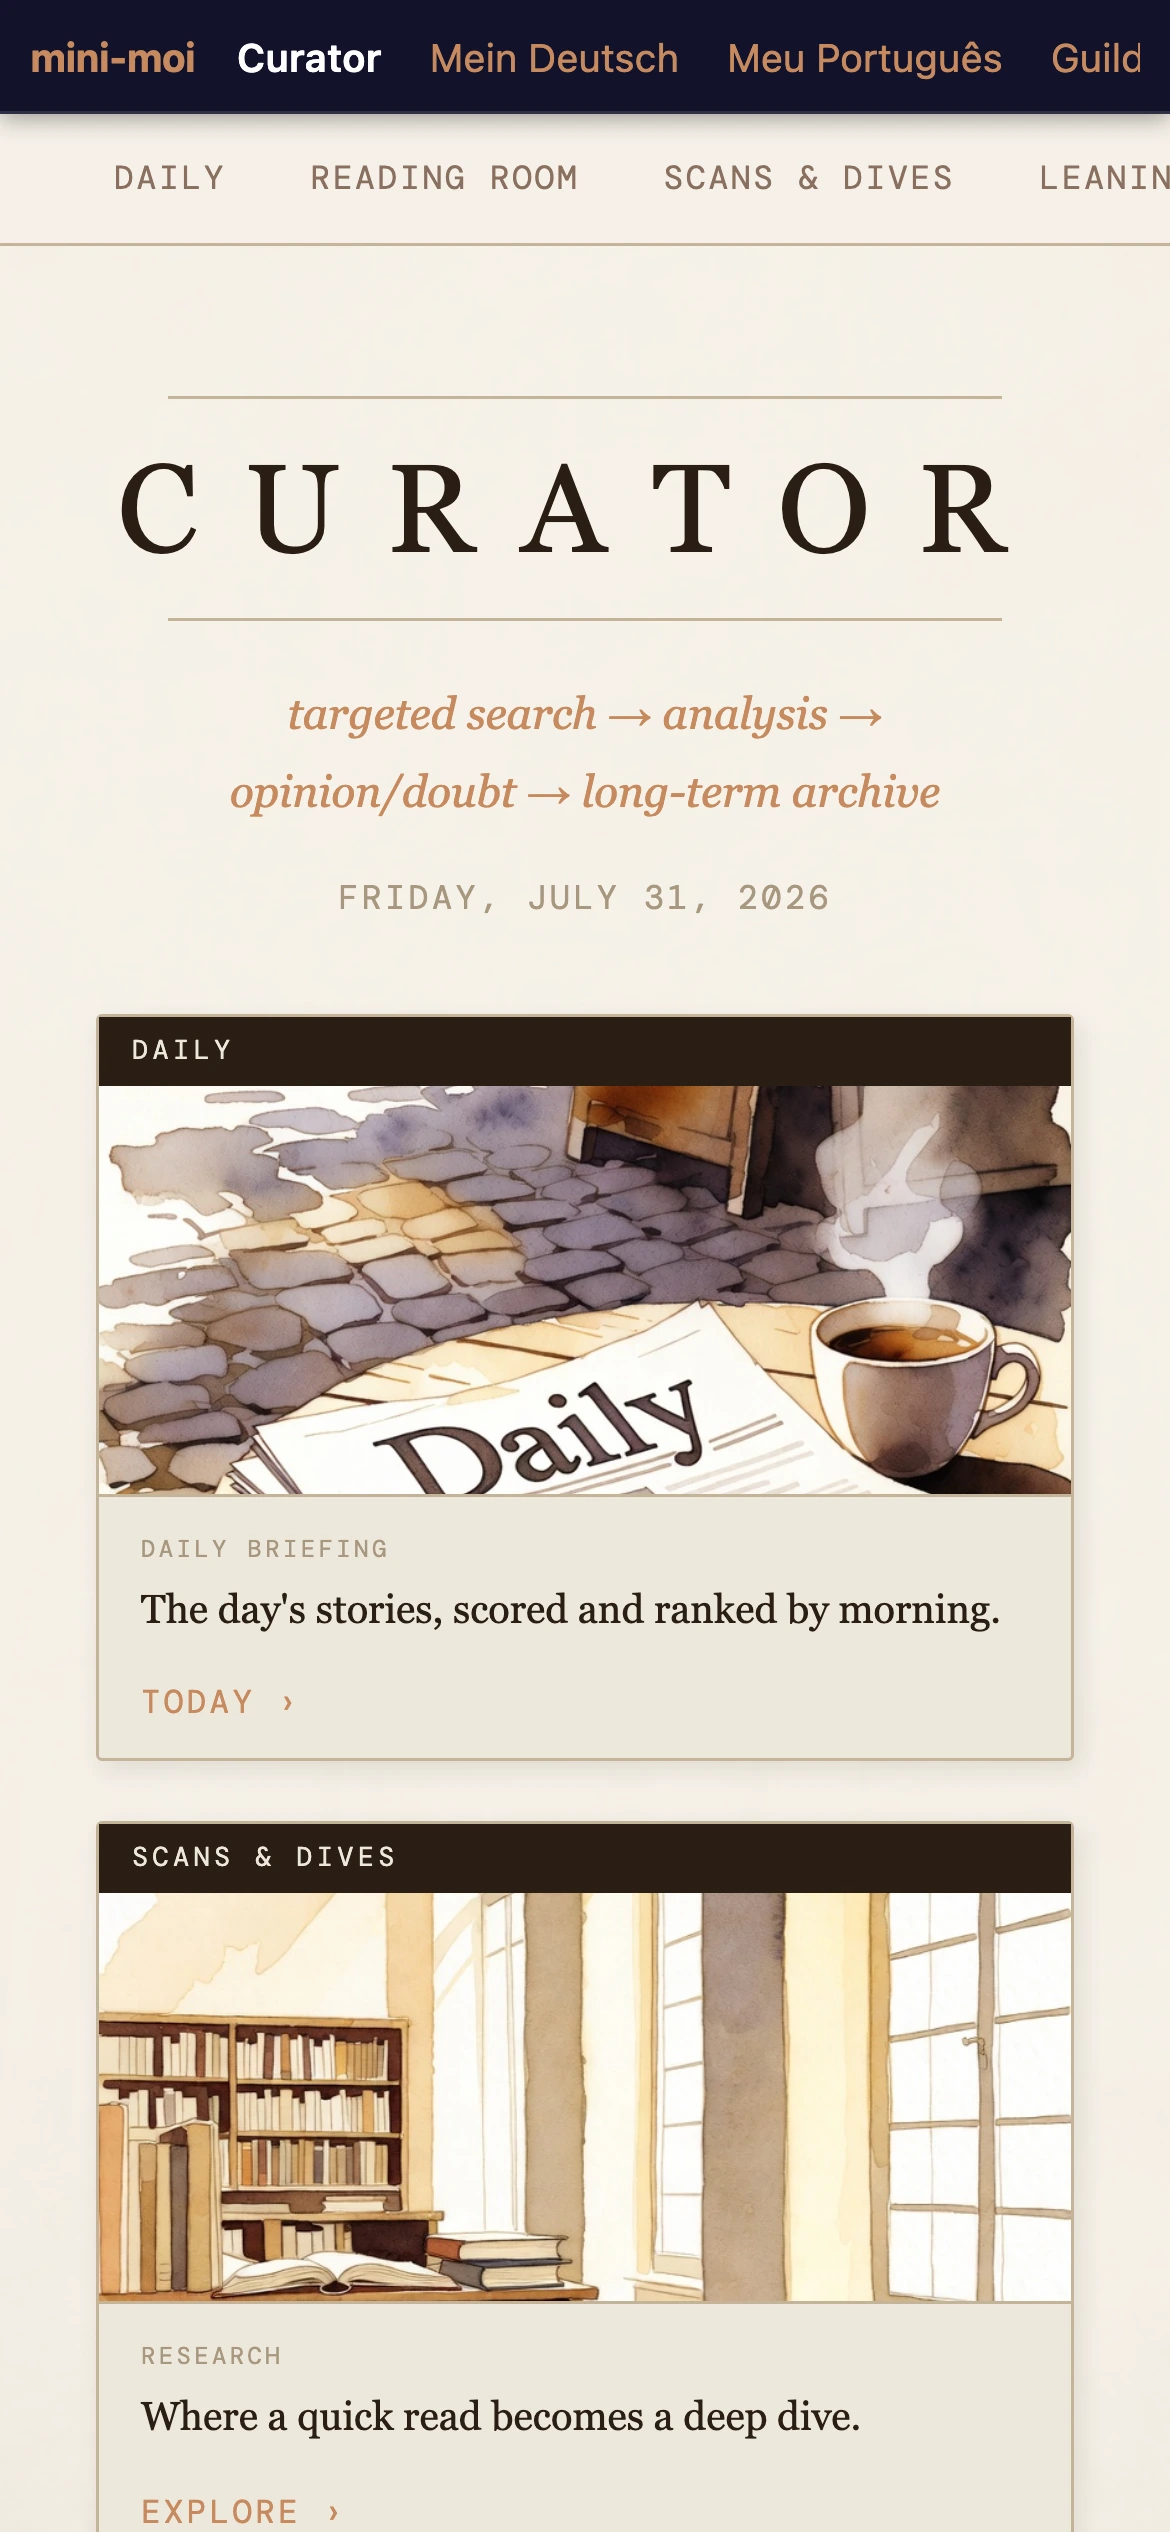
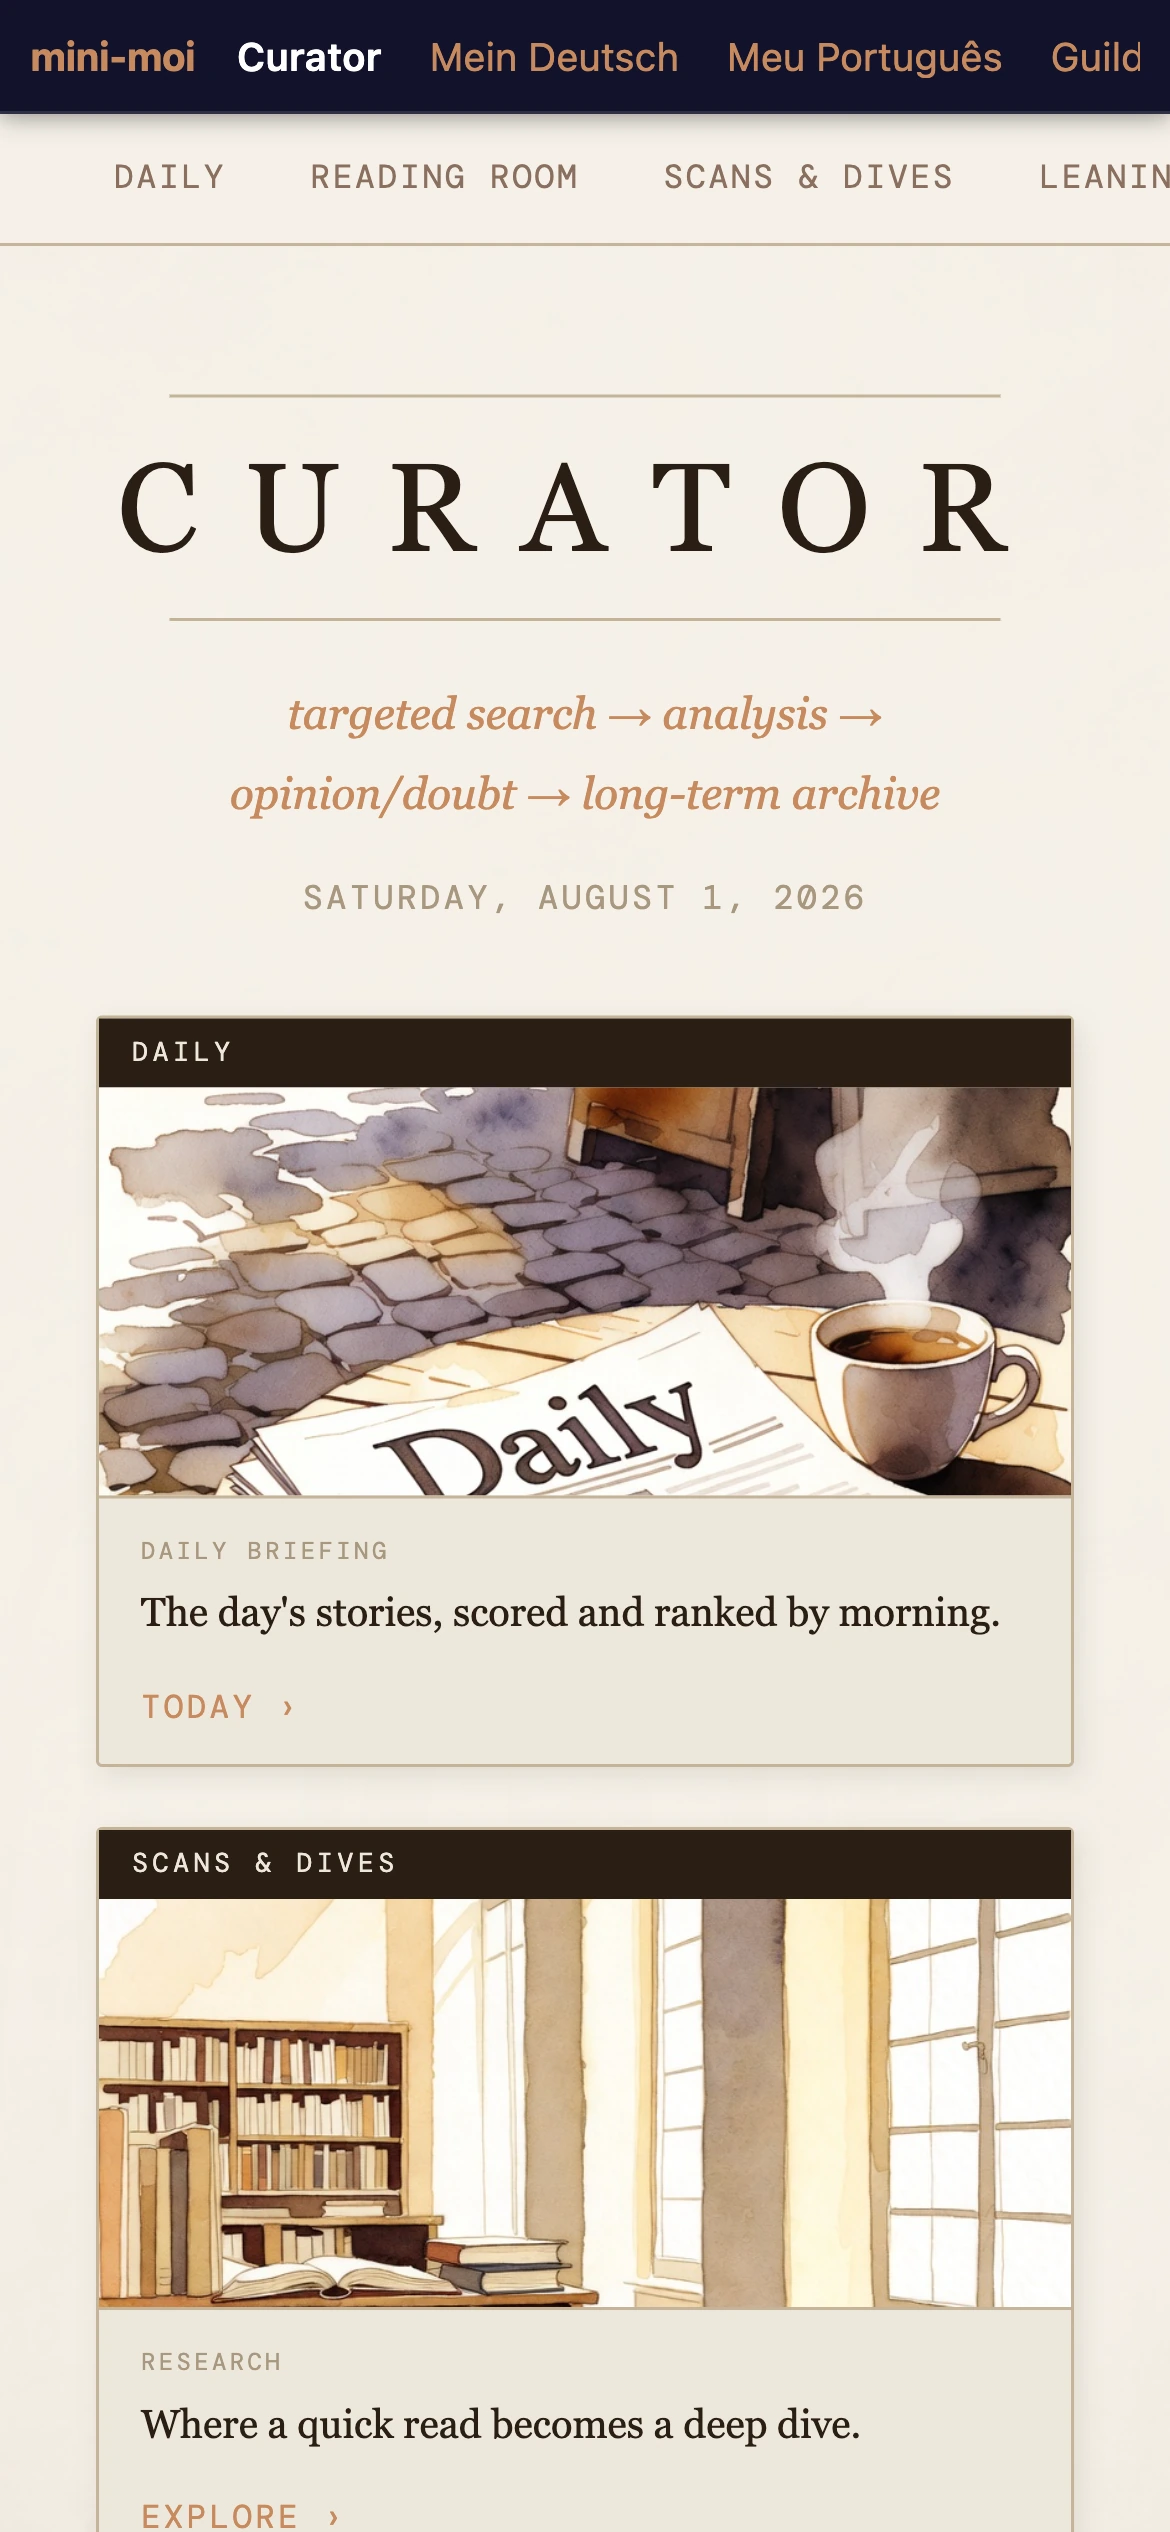
feat: promote real Curator and CoS captures to Look Inside
Curator's mobile gallery expands from 2 to 12 real captured scenes:
landing, section overview, daily briefing (real xAI-scored content,
grok-4.3), a saved article, Reading Room, Scans & Dives, and the full
Deeper Dive → Research Thread flow with real motivation text — matching
the platform's own flagship depth-ladder example.

CoS's Confer scene is replaced with last night's real exchange (a genuine
request and reply) instead of the earlier empty/placeholder capture.

diff --git a/minimoi_portal/templates/tour.html b/minimoi_portal/templates/tour.html
@@ -133,13 +133,53 @@
     </div>
     <div class="tour-mobile-gallery" hidden aria-hidden="true">
       <a class="tour-mobile-shot-link"
-         href="/static/tour/01-curator-landing-mobile.webp?v=20260731-baseline1"
+         href="/static/tour/01-curator-landing-mobile.webp?v=20260801-curatorflow1"
          data-caption="01 Start at Curator"
          data-alt="Curator mobile landing page"></a>
       <a class="tour-mobile-shot-link"
-         href="/static/tour/02-curator-daily-briefing-mobile.webp?v=20260731-baseline1"
-         data-caption="02 Open the ranked daily briefing"
+         href="/static/tour/02-curator-sections-overview-mobile.webp?v=20260801-curatorflow1"
+         data-caption="02 Research, Leanings, and the Archive — all connected"
+         data-alt="Curator landing page scrolled to show Research, Leanings, and Archive sections"></a>
+      <a class="tour-mobile-shot-link"
+         href="/static/tour/03-curator-daily-briefing-mobile.webp?v=20260801-curatorflow1"
+         data-caption="03 Open the ranked daily briefing"
          data-alt="Ranked Curator daily briefing on mobile"></a>
+      <a class="tour-mobile-shot-link"
+         href="/static/tour/04-curator-article-fiscal-mobile.webp?v=20260801-curatorflow1"
+         data-caption="04 A current story in the ranked feed"
+         data-alt="Curator daily briefing showing a current fiscal policy article"></a>
+      <a class="tour-mobile-shot-link"
+         href="/static/tour/05-curator-article-list-2-mobile.webp?v=20260801-curatorflow1"
+         data-caption="05 Keep scrolling the ranked list"
+         data-alt="Curator daily briefing article list"></a>
+      <a class="tour-mobile-shot-link"
+         href="/static/tour/06-curator-article-list-3-mobile.webp?v=20260801-curatorflow1"
+         data-caption="06 Every story scored and sourced"
+         data-alt="Curator daily briefing article list with scores and sources"></a>
+      <a class="tour-mobile-shot-link"
+         href="/static/tour/07-curator-article-saved-mobile.webp?v=20260801-curatorflow1"
+         data-caption="07 Save a story — Curator remembers what mattered"
+         data-alt="Curator daily briefing with an article saved and View Scan available"></a>
+      <a class="tour-mobile-shot-link"
+         href="/static/tour/08-curator-reading-room-mobile.webp?v=20260801-curatorflow1"
+         data-caption="08 Revisit saved stories in the Reading Room"
+         data-alt="Curator Reading Room showing saved articles"></a>
+      <a class="tour-mobile-shot-link"
+         href="/static/tour/09-curator-article-saved-2-mobile.webp?v=20260801-curatorflow1"
+         data-caption="09 Scans & Dives — the tools for going deeper"
+         data-alt="Curator Scans and Dives page"></a>
+      <a class="tour-mobile-shot-link"
+         href="/static/tour/10-curator-scans-dives-mobile.webp?v=20260801-curatorflow1"
+         data-caption="10 Continue through the ranked briefing"
+         data-alt="Curator daily briefing, further down the ranked list"></a>
+      <a class="tour-mobile-shot-link"
+         href="/static/tour/11-curator-deeper-dive-thread-mobile.webp?v=20260801-curatorflow1"
+         data-caption="11 From one saved story to a real research thread"
+         data-alt="Curator generating a Deeper Dive and starting a Research Thread from a saved article"></a>
+      <a class="tour-mobile-shot-link"
+         href="/static/tour/12-curator-scans-dives-tools-mobile.webp?v=20260801-curatorflow1"
+         data-caption="12 Scans & Dives, explored further"
+         data-alt="Curator Scans and Dives page with research tools"></a>
     </div>
   </section>
 

diff --git a/tests/test_auth.py b/tests/test_auth.py
@@ -248,8 +248,18 @@ def test_public_tour_is_chooser_only_with_privacy_safe_cos(client):
         for link in soup.select("section#curator .tour-mobile-shot-link")
     ]
     assert curator_mobile_hrefs == [
-        "/static/tour/01-curator-landing-mobile.webp?v=20260731-baseline1",
-        "/static/tour/02-curator-daily-briefing-mobile.webp?v=20260731-baseline1",
+        "/static/tour/01-curator-landing-mobile.webp?v=20260801-curatorflow1",
+        "/static/tour/02-curator-sections-overview-mobile.webp?v=20260801-curatorflow1",
+        "/static/tour/03-curator-daily-briefing-mobile.webp?v=20260801-curatorflow1",
+        "/static/tour/04-curator-article-fiscal-mobile.webp?v=20260801-curatorflow1",
+        "/static/tour/05-curator-article-list-2-mobile.webp?v=20260801-curatorflow1",
+        "/static/tour/06-curator-article-list-3-mobile.webp?v=20260801-curatorflow1",
+        "/static/tour/07-curator-article-saved-mobile.webp?v=20260801-curatorflow1",
+        "/static/tour/08-curator-reading-room-mobile.webp?v=20260801-curatorflow1",
+        "/static/tour/09-curator-article-saved-2-mobile.webp?v=20260801-curatorflow1",
+        "/static/tour/10-curator-scans-dives-mobile.webp?v=20260801-curatorflow1",
+        "/static/tour/11-curator-deeper-dive-thread-mobile.webp?v=20260801-curatorflow1",
+        "/static/tour/12-curator-scans-dives-tools-mobile.webp?v=20260801-curatorflow1",
     ]
     for href in curator_mobile_hrefs:
         assert (

diff --git a/tests/test_tour_mobile_viewer.py b/tests/test_tour_mobile_viewer.py
@@ -64,7 +64,17 @@ def test_tour_supports_distinct_desktop_and_mobile_story_collections():
     css = (ROOT / "minimoi_portal/static/portal.css").read_text(encoding="utf-8")
     curator_mobile_assets = [
         "01-curator-landing-mobile.webp",
-        "02-curator-daily-briefing-mobile.webp",
+        "02-curator-sections-overview-mobile.webp",
+        "03-curator-daily-briefing-mobile.webp",
+        "04-curator-article-fiscal-mobile.webp",
+        "05-curator-article-list-2-mobile.webp",
+        "06-curator-article-list-3-mobile.webp",
+        "07-curator-article-saved-mobile.webp",
+        "08-curator-reading-room-mobile.webp",
+        "09-curator-article-saved-2-mobile.webp",
+        "10-curator-scans-dives-mobile.webp",
+        "11-curator-deeper-dive-thread-mobile.webp",
+        "12-curator-scans-dives-tools-mobile.webp",
     ]
     german_mobile_assets = [
         "01-german-landing-mobile.webp",
